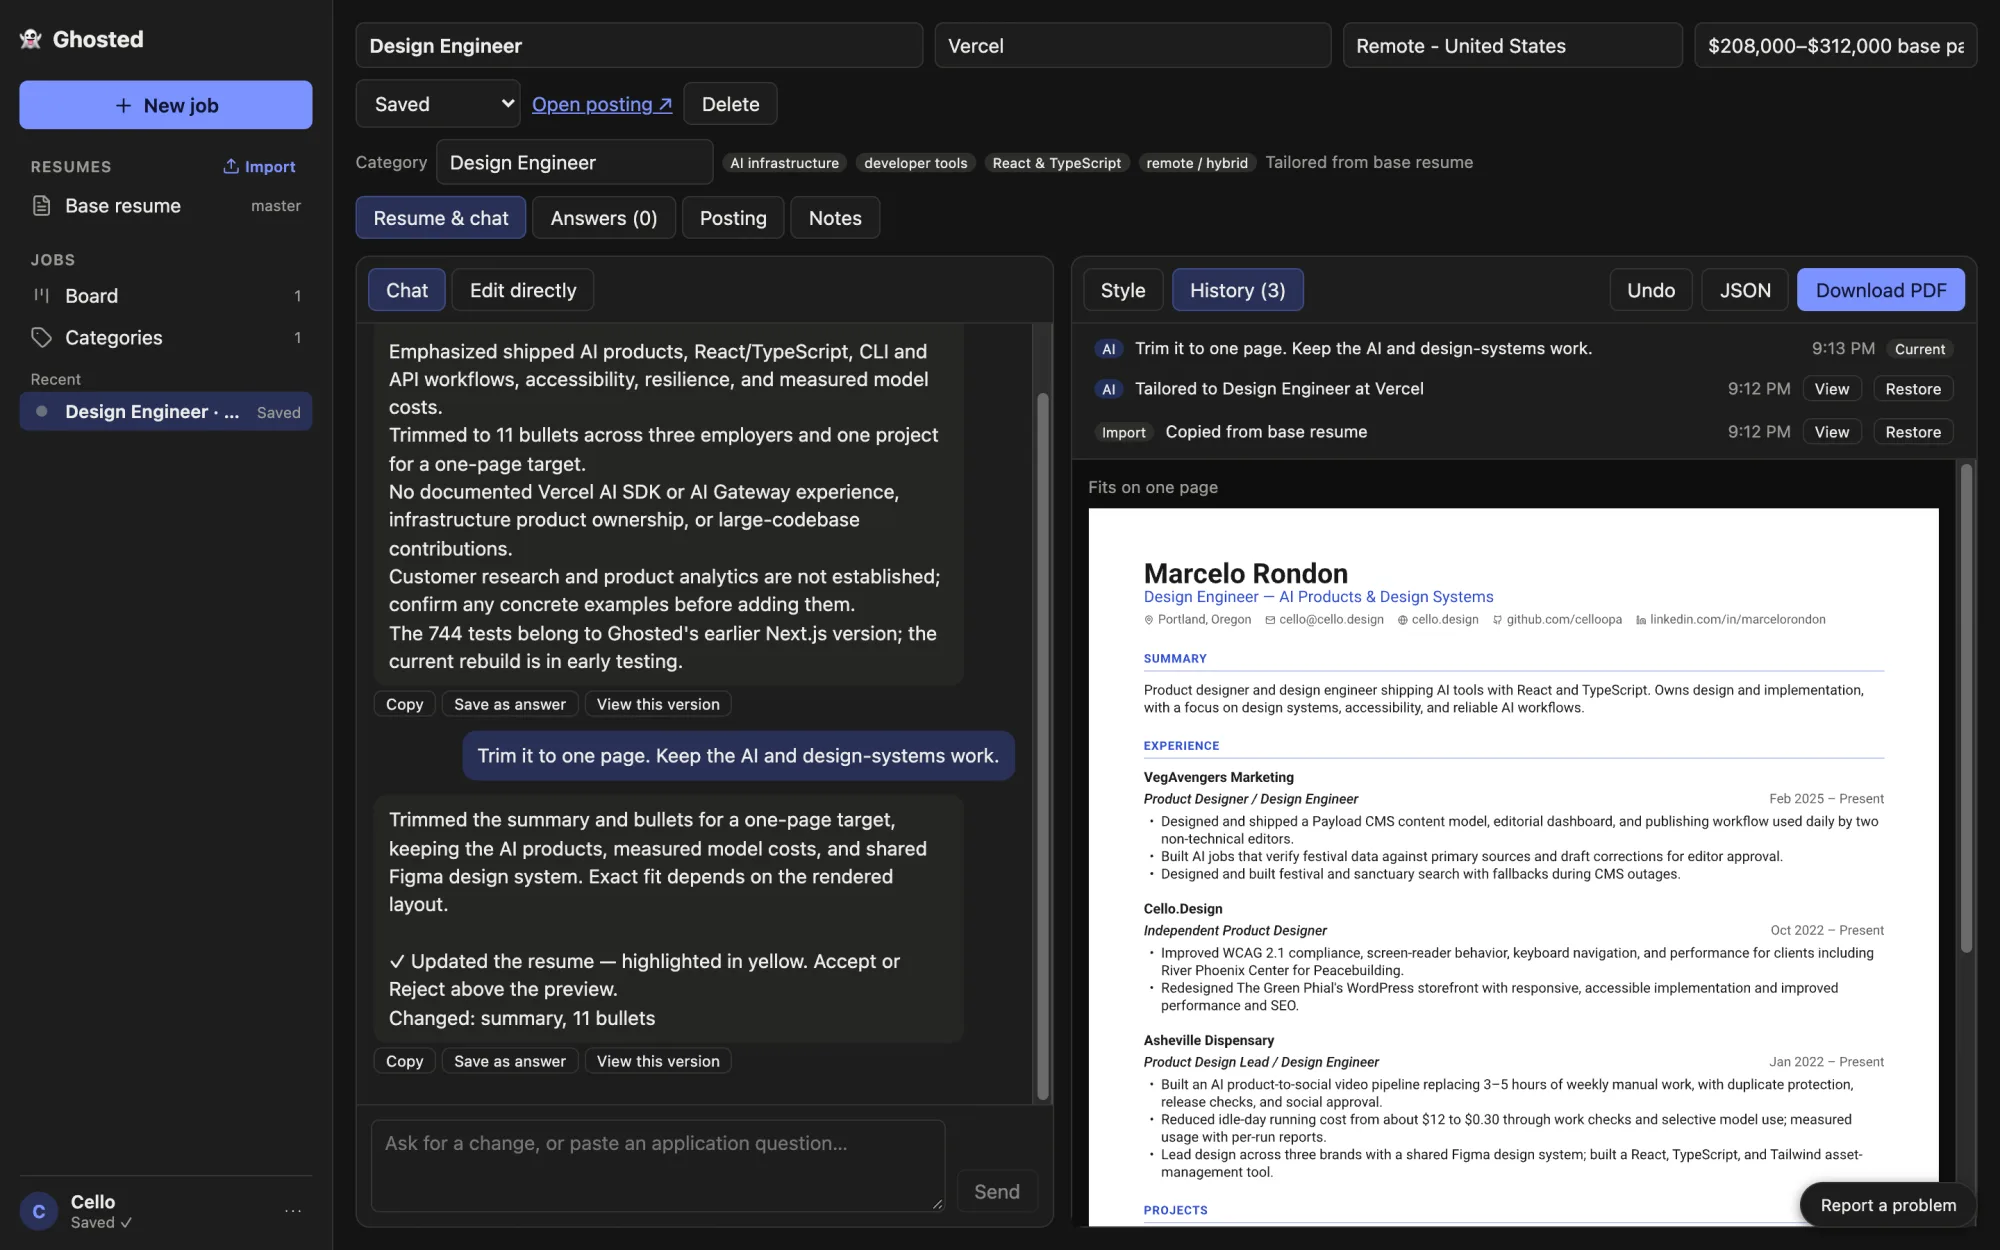
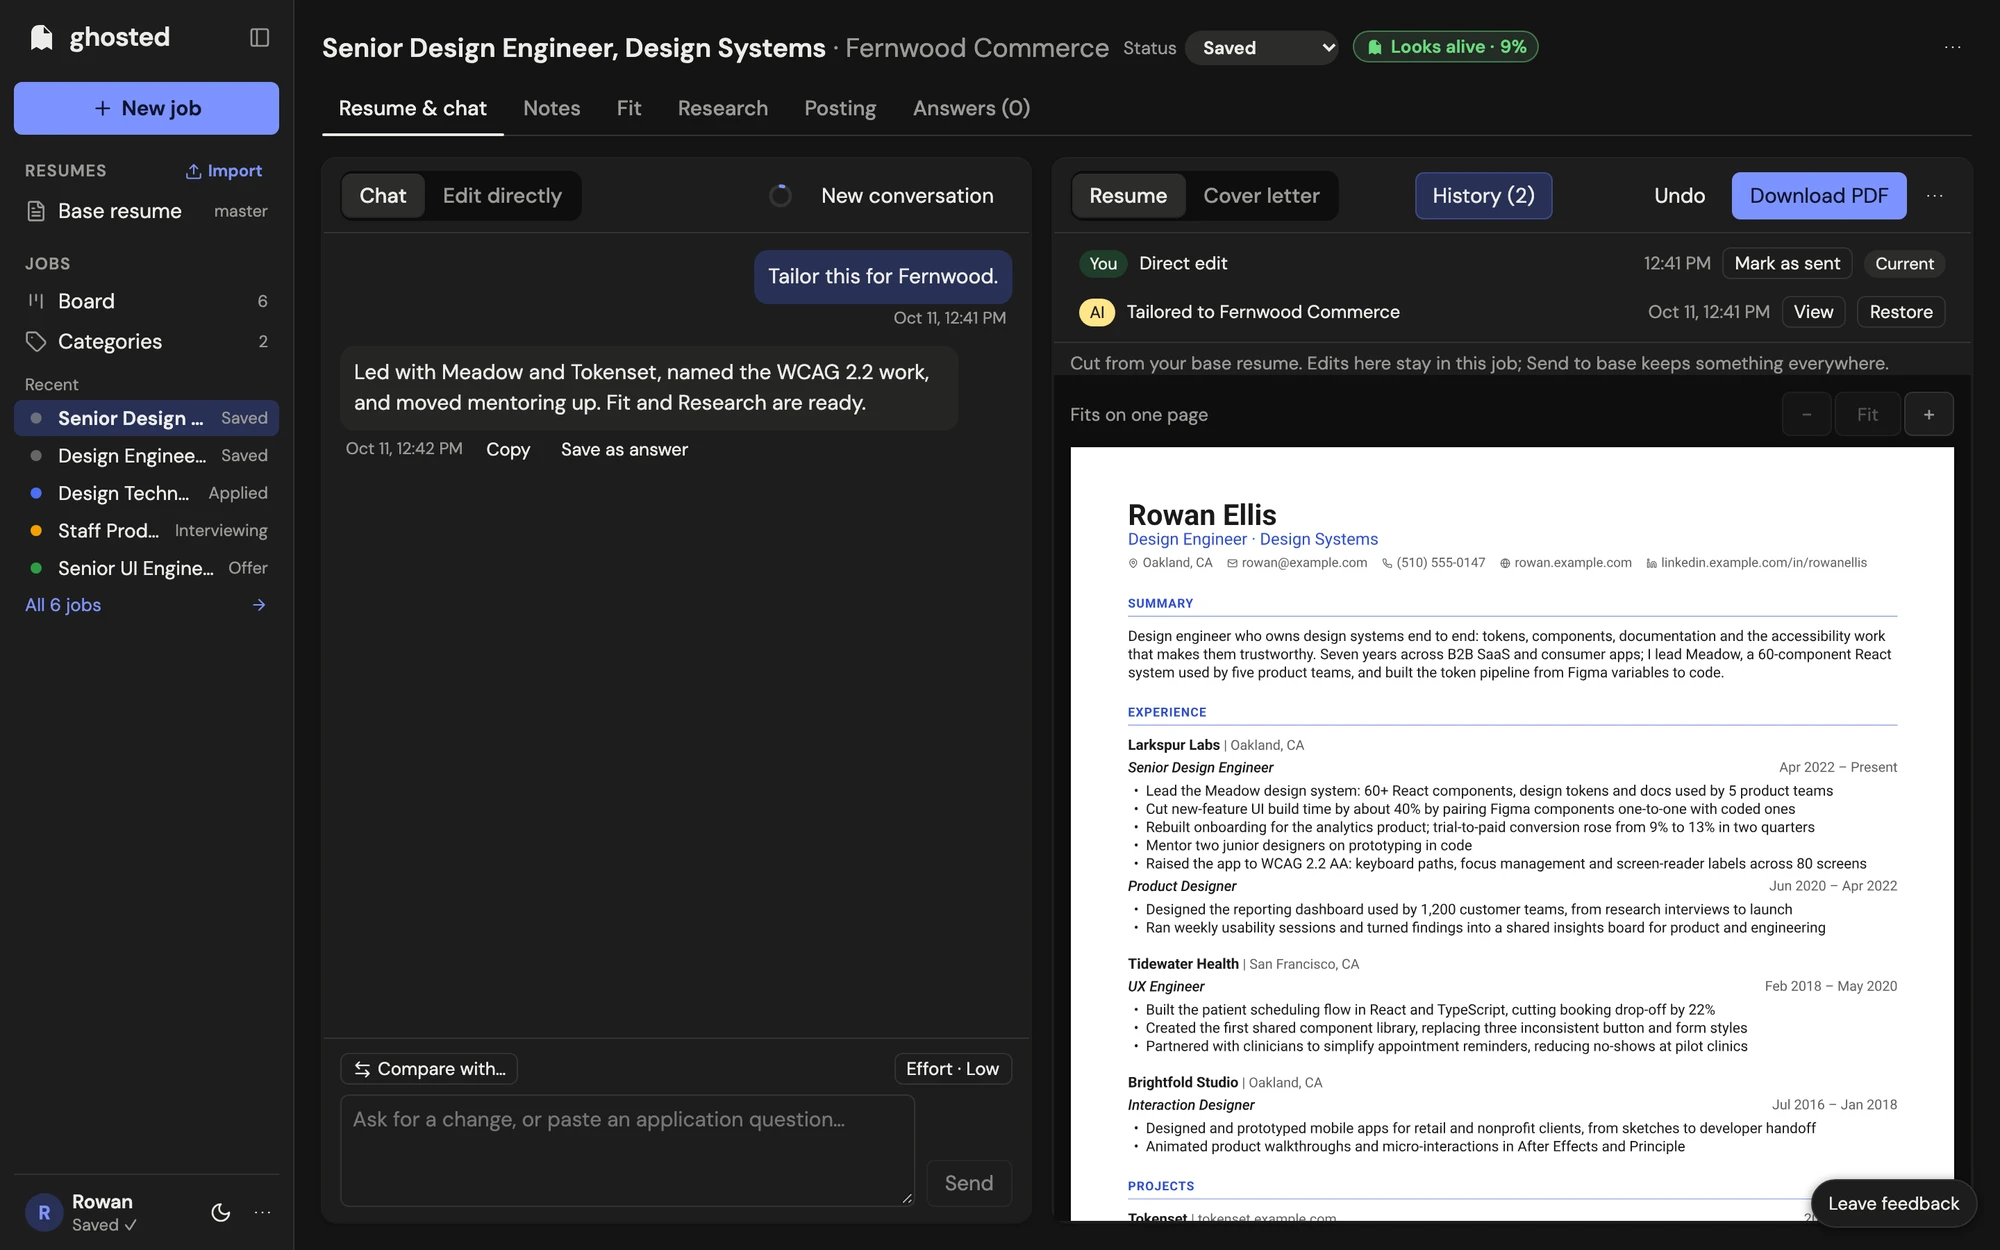
D3: Ghosted's images show the demo persona only (Rowan Ellis)
- Seven recaptures from a local Ghosted with the demo persona: style-looks, phones,
  interview, tailored, history, edit-style, report (same names, formats and sizes).
- proposal.webp, highlights.webp and og.png built from Ghosted's demo landing shot,
  padded on Paper 100 at the originals' sizes (cropped, never scaled).
- Alt text and captions that no longer matched their images, edited in place; body
  sentences left for Cello (listed in CHECKS.md).
- CHECKS.md: the stage 4 merge resolutions and proof, the alt/caption before -> after,
  and the OCR of every Ghosted image and video (0 real-resume matches).

diff --git a/docs/landscape/CHECKS.md b/docs/landscape/CHECKS.md
@@ -440,13 +440,118 @@ still is now the half-size flattened copy). Home, `/resume` and `/design-system`
 - **Done:** the post "Programmatic Resumes You Can Chat With" no longer shows `v3/archetype.webp`
   (it showed a real resume). Its "Categories and archetypes" paragraph stays, with the category
   screenshot alone at full width, and the file is removed so it isn't served at its URL.
-- **Not done yet:** replacing the seven recaptured demo-persona shots (`style-looks`, `phones`,
-  `interview`, `tailored`, `history`, `edit-style`, `report`) and building `proposal.webp`,
-  `og.png` and `highlights.webp` from Ghosted's demo landing shot. The copy into this repo was
-  stopped by the session's permission check, so the alt and caption edits that go with the new
-  images wait too (they'd describe images that aren't there).
-- **OCR today** (tesseract, counting lines with "Marcelo", "Rondon", "cello@", the GitHub or
-  LinkedIn handle): `edit-style` 5, `style-looks` 3, `highlights` 2, `interview` 2, `report` 2,
-  `tailored` 2, `og.png` 2, `history` 1, `proposal` 1; `phones` reads 0 at this size but showed the
-  real resume in S2's check by eye. Clean: `board`, `board-dark`, `category`, `fit`, `intake`,
-  `research`, `tour-look`, `signin`, the Loop poster, and the four /card artifacts.
+- **OCR before the replacements** (tesseract, counting lines with "Marcelo", "Rondon", "cello@",
+  the GitHub or LinkedIn handle): `edit-style` 5, `style-looks` 3, `highlights` 2, `interview` 2,
+  `report` 2, `tailored` 2, `og.png` 2, `history` 1, `proposal` 1; `phones` read 0 at this size but
+  showed the real resume in S2's check by eye.
+
+# Stage 4 merge and D3 (2026-10-12)
+
+## The merge (claude/design-system-migration at 185c2b1, stage 4)
+
+The landscape keeps its markup and structure and takes stage 4's names, values and rules.
+
+| File | Resolution |
+|---|---|
+| CaseMeta, FlowDiagram | Ours. Already on stage 4's type, tracking and space roles; the plate recipe (`--bg-plate`, `--border-strong`/`--border-muted`, `--text-accent`, `--text-muted`) owns the surface, so it wins over stage 4's `--bg-raised`. |
+| MediaFull, MediaTwo, MediaThree | Ours: the entry animations stay dropped (the reading pages don't animate media in), and MediaVideo owns the media styles. |
+| 404, card, blog and project slugs | Ours (SceneLayout rewrites). No raw values left in them, so no token swaps were needed. |
+| animations.css | Stage 4's file, plus `sceneSettle` (card's scroll-linked settle) and `enter-fade` (opacity only, in the enter-* block). `enter-fade` replaces the removed `fadeIn` in scene.css (the Admire label) and ContextBar (the bar's reading context), both at `--motion-handoff`. |
+| tokens.json | The A3 signature motion tokens (`--motion-arrival-stagger` 120ms, `--motion-arrival-overshoot` 0.107, `--motion-focus` 550ms, `--motion-scene-fade` 700ms, `--motion-handoff` 400ms) move from the Scene group into Motion, beside stage 4's signature tokens. Same names and values. |
+| raw-baseline.json | Regenerated with `node scripts/tokens.mjs --baseline` last: **179 (ours) / 201 (stage 4) → 61**, deletions only against both sides. |
+
+Proof: `pnpm build` 0 errors, 0 warnings, 0 hints. `ui:shots` on /resume and /design-system vs
+185c2b1: **0 px on all 8 screens**. `motion:table` on those two pages vs 185c2b1: identical except
+one fewer `<link>`/`<style>` element in the head (CSS chunking); vs our pre-merge build: only stage
+4's changes (entries at `--motion-entry`, the header's stagger, named transition properties,
+`--ease-out` for `ease`). On /card, Ghosted, a post, /projects and 404 the motion table is unchanged
+from our pre-merge build under normal motion; `sceneSettle` still runs on /card's four panels.
+
+## D3: the Ghosted images, done (demo personas only)
+
+- **Seven recaptures** (`style-looks`, `phones`, `interview`, `tailored`, `history`, `edit-style`,
+  `report`): the demo persona Rowan Ellis in a local Ghosted, at the originals' names, formats and
+  sizes.
+- **Three built from Ghosted's demo landing shot** (1136×1250, Rowan Ellis with an AI proposal
+  pending), padded on Paper 100 (#f3ede2), never scaled or stretched:
+  - `proposal.webp` 1920×1200: the shot's top 1140 px (through Education), centered.
+  - `highlights.webp` 2000×1250: the same crop, centered.
+  - `og.png` 1200×630: the top 566 px (the proposal bar, the name and highlighted summary, the first
+    role), centered with a 32 px margin.
+
+### Alt text and captions, before → after
+
+Case study (`ghosted.mdx`):
+- `proposal.webp` alt: "A job workspace for a Product Designer, Design Systems role at Northwind
+  Labs. The chat on the left shows the request 'Lead the summary with design systems, and tighten
+  the Asheville Dispensary bullets' and the reply listing what changed. On the right, the live
+  resume has the new summary and four bullets highlighted in yellow under a bar reading 'AI proposal
+  awaiting your decision' with Reject and Keep buttons" → "A live resume under a bar reading 'AI
+  proposal awaiting your decision. Highlighted text is what changed.' with Reject and Keep buttons.
+  The new summary and four bullets are highlighted in yellow"
+- `proposal.webp` caption: "… (Demo data: my resume, a fictional job.)" → "… (Demo data: a
+  fictional resume.)"
+- `phones.webp` alt: "…; and the same job with an AI proposal highlighted in yellow above Reject and
+  Keep" → "…; and the same job's chat, with the request to tailor it and the reply"
+- `phones.webp` caption: "…, the resume near the top, and a proposal waiting for a decision." →
+  "…, the resume near the top, and the chat one tap away."
+- `style-looks.webp`, `og.png`: no text to change (the alt still matches; og has none).
+
+Post (`programmatic-resumes-you-can-chat-with.mdx`):
+- `interview.webp` alt: "Ghosted's base resume screen: the chat asks a specific question about one
+  job's thin bullets while the live resume preview sits on the right" → "Ghosted's base resume
+  screen: asked what's missing, the chat suggests two specific additions while the live resume
+  preview sits on the right"
+- `interview.webp` caption: "Asked to strengthen my bullets, the agent picks the thinnest job and
+  asks for specifics before writing anything." → "Asked what's missing, the agent names two
+  specifics, a project's numbers and a line on mentoring, instead of writing anything."
+- `tailored.webp` alt: "Tailoring notes in the chat listing what was emphasized and the gaps the
+  resume can't support, such as no Vercel AI SDK experience" → "Tailoring notes in the chat listing
+  what was emphasized, such as the WCAG 2.2 work, beside the one-page tailored resume"
+- `tailored.webp` caption: "The first tailoring pass names its gaps instead of filling them." →
+  "The first tailoring pass says what it changed, on one page."
+- `history.webp` alt: "History panel listing three versions: imported from the base resume,
+  tailored to Vercel by the AI, and trimmed by the AI on request" → "History panel listing two
+  versions: tailored to Fernwood Commerce by the AI, then a direct edit by you, now current"
+  (caption unchanged)
+- `edit-style.webp` alt: "The edit form on the left with header fields and contact items, and the
+  Style panel on the right with per-element size, weight and color controls above a centered resume
+  header" → "The Style panel on the left with Fine-tune open: header, font, body size, margin and
+  line spacing, then per-element size, weight and color controls. The live resume on the right has
+  a centered header"
+- `edit-style.webp` caption: "The form and the Style panel: control down to the line, without
+  touching code." → "The Style panel's Fine-tune: control down to the line, without touching code."
+- `report.webp` alt: "Report a problem dialog with Bug, Annoying, Weird and Idea options, a note
+  field and screenshot attachments" → "The feedback dialog, 'Tell Cello anything', with a note
+  field, an Add a screenshot button and what's sent with the note"
+- `report.webp` caption: "Bug, annoying, weird or idea: one button, screenshots included, never the
+  resume itself." → "Anything at all: one button, screenshots included, never the resume itself."
+- `highlights.webp` (the cover): its alt is the post title, so nothing to change.
+
+### Body sentences waiting on Cello's words (not edited)
+
+- Post, intro: "The screenshots use my own resume and three real Design Engineer postings." The
+  Ghosted screenshots now show a fictional resume and fictional jobs (the intake and category
+  shots still show real postings).
+- Post, step 3: "…the changed summary and bullets are highlighted, with Accept and Reject above the
+  page." The cover now shows Reject and Keep, and it isn't the "trim it to one page" result.
+- Also no longer matching their images (Cello's call whether to touch them): step 3's "It tells you
+  plainly what it couldn't back up" (the tailored shot names no gaps), and step 6's "A **Report a
+  problem** button" (the dialog is now "Tell Cello anything", the button "Leave feedback").
+
+### No real resume left
+
+Every file under `public/images/projects/ghosted/` (43 images at 2×, plain and inverted, and 1 fps
+of all 8 videos) was OCR'd for "Marcelo", "Rondon", "cello@", the GitHub and LinkedIn handles and
+"Portland": **0 matches**. The ten replaced images were also checked by eye: only Rowan Ellis
+(example.com, 555 numbers) and fictional employers.
+
+Left for Cello:
+- "Cello" still appears as **product copy and the account name**: the feedback dialog in `report`
+  ("Tell Cello anything", "Send to Cello"), and the sidebar's account name in `intake`, `category`,
+  `board-dark` (post) and the two Fit design-system shots. Not resume data.
+- The Rowan in the landing-shot images (Pixelmint, Orbit Health) and the Rowan in the recaptures
+  (Larkspur Labs, Tidewater Health) come from different seeds: same name, different jobs.
+- `ghosted-intro.webm`, `ghosted-end.webm` and `ghosted-agent.webm` show a terminal with a local
+  home-folder path and username. No page uses them, but `public/` still serves them at their URLs.
+- `v3/signin.webp` keeps the "e.g. kim-7x2qpd" placeholder (the app's own copy).
